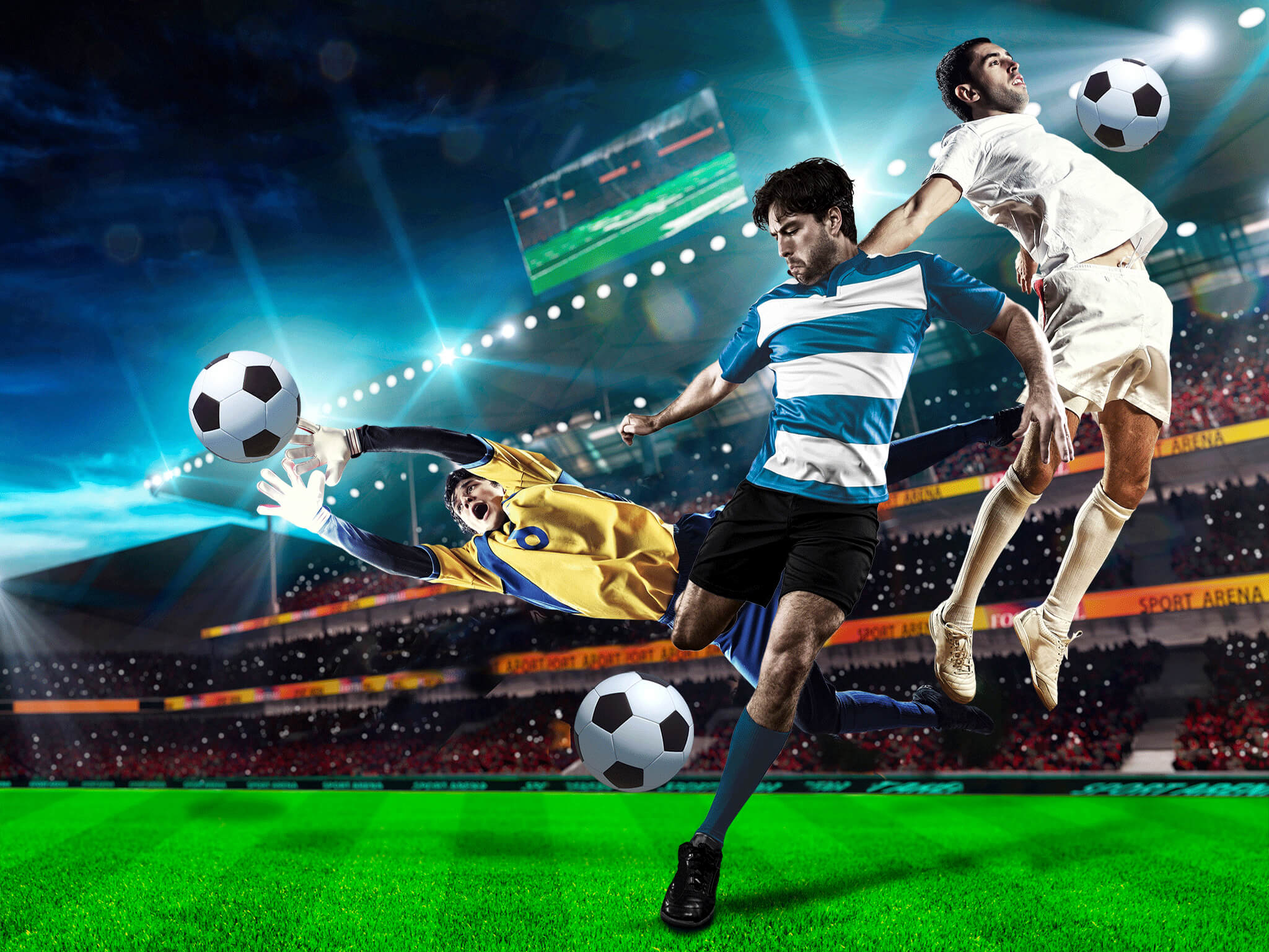
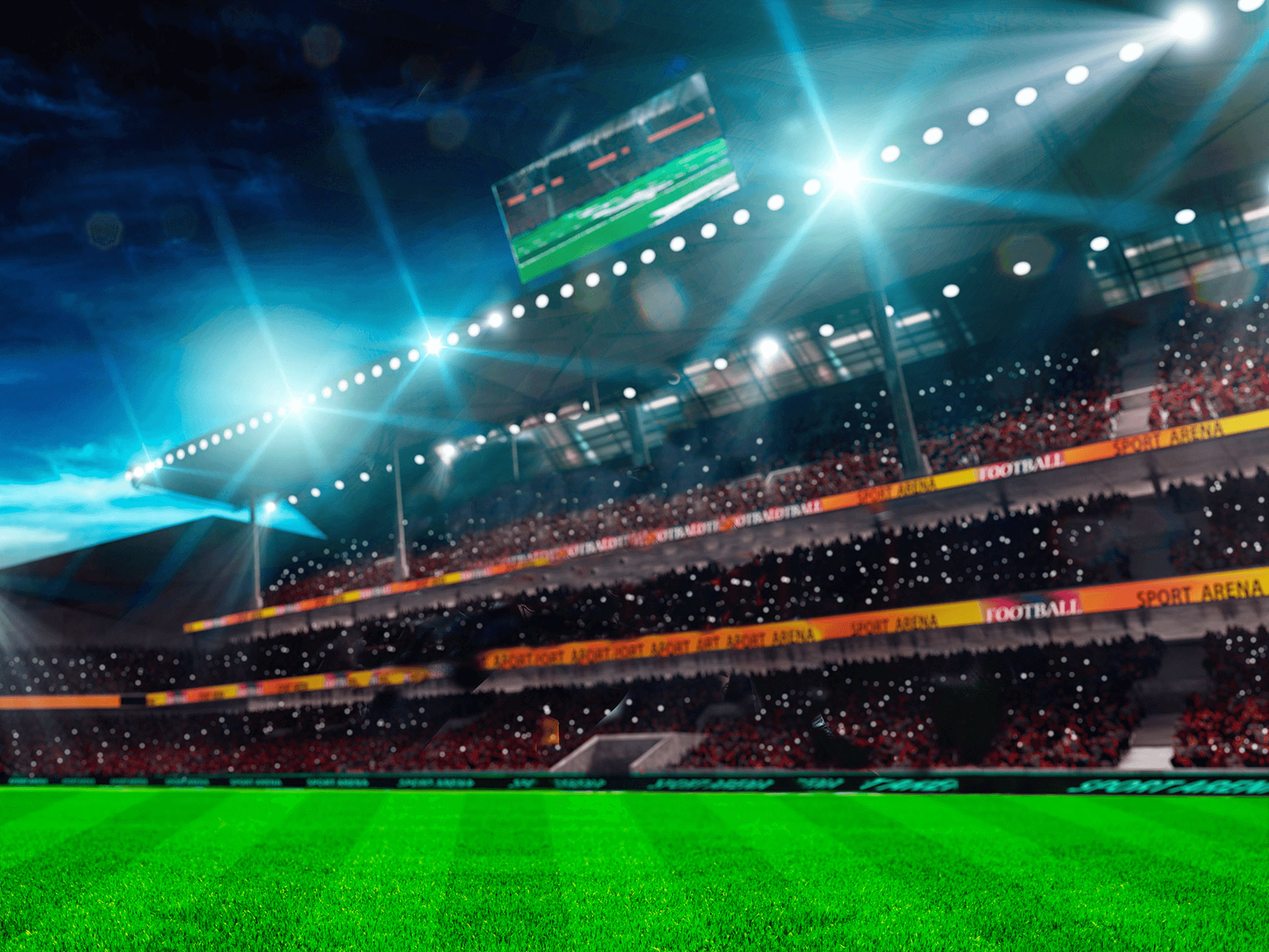
update

diff --git a/cn/css/style.css b/cn/css/style.css
@@ -51,9 +51,15 @@ h3{ font-size:2em; font-weight:normal; line-height:1.5em;}
 .section_01 .wrapper .language ul {}
 .section_01 .wrapper .language li { float:left; width:15%;}
 .section_01 .wrapper .language li+li { padding-right:2%;}
-.section_01 .wrapper .player_01 {}
-.section_01 .wrapper .player_02 {}
-.section_01 .wrapper .player_03 {}
+.section_01 .wrapper .player_01 { width:42%; height:auto; position:absolute; right:14%; top:15%; z-index:998;}
+.section_01 .wrapper .player_02 {
+	width: 40%;
+	height: auto;
+	position: absolute;
+	right:0;
+	top: 3%;
+}
+.section_01 .wrapper .player_03 { width:70%; height:auto; position:absolute; left:15%; top:35%;}
 .section_01 .wrapper .bg{}
 
 /*SECTION_02*/

diff --git a/cn/index_cn.html b/cn/index_cn.html
@@ -38,9 +38,9 @@
 <div class="section_01">
  <div class="wrapper">
   <div class="topic"><img src="imgs/topic.png" class="rwd_img" alt="WUFC大学足球赛"></div>
-  <!--<div class="player_01"></div>
-  <div class="player_02"></div>
-  <div class="player_03"></div>-->
+  <div class="player_01"><img src="imgs/player_1.png" class="rwd_img"></div>
+  <div class="player_02"><img src="imgs/player_2.png" class="rwd_img"></div>
+  <div class="player_03"><img src="imgs/player_3.png" class="rwd_img"></div>
   <div class="language">
    <ul class="clearfix">
     <li><a href="#" class="icon"><img src="imgs/language_01.png" class="rwd_img"></a></li>
